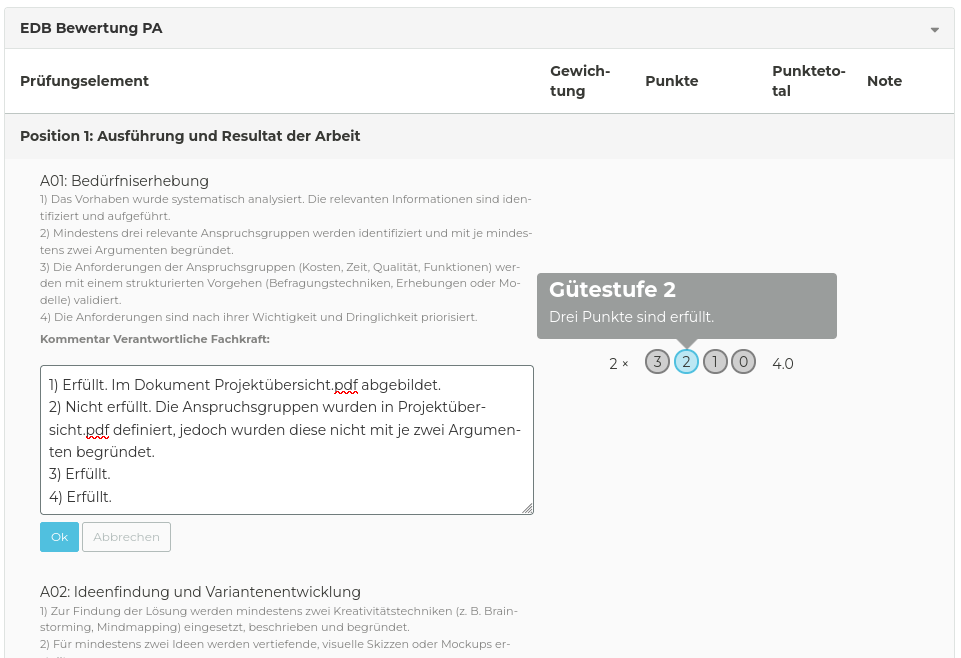
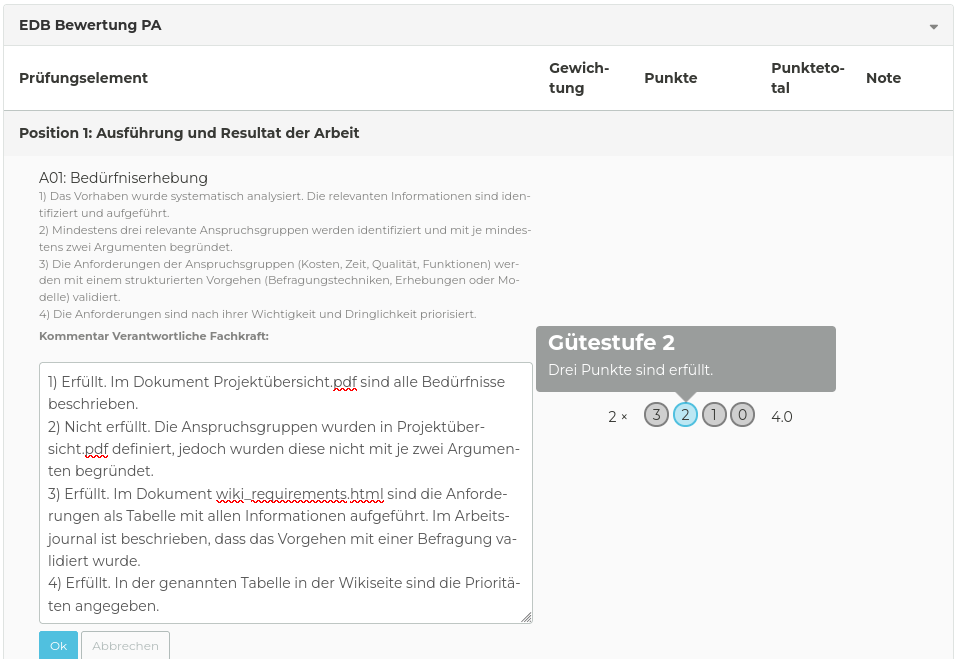
docs: tune

diff --git a/edb/infoveranstaltung-vf.html b/edb/infoveranstaltung-vf.html
@@ -152,7 +152,7 @@
                 <li><h3>Registrierung (ab 25.11.)</h3><p>Einladung durch den/die BB, um Dich auf der Prüfungsplattform zu registrieren.</p></li>
                 <li class="fragment"><h3>Grobplanung (bis 31.12.)</h3><p>Du gibst zusammen mit der KAND die Grobbeschreibung und den Startblock ein.</p></li>
                 <li class="fragment"><h3>Aufgabenstellung (bis 1 Monat vor dem Start)</h3><p>Detaillierte Aufgabenstellung ausarbeiten und auf der Prüfungsplattform eingeben.</p></li>
-                <li class="fragment"><h3>Validierung und Freigabe (bis wenige Tage vor dem Start)</h3><p>Der/die VEX gibt die IPA zur Umsetzung frei.</p></li>
+                <li class="fragment"><h3>Validierung und Freigabe (bis 3-5 Tage vor dem Start)</h3><p>Der/die VEX gibt die IPA zur Umsetzung frei.</p></li>
               </ol>
               <aside class="callout">Plane rückwärts vom IPA-Start und bearbeite Rückmeldungen zeitnah.</aside>
             </div>
@@ -183,7 +183,7 @@
                 <img src="../lib/assets/icons/education/creativity.svg" alt="Austauschen">
                 <div>
                   <h3>Ideen prüfen</h3>
-                  <p>Prüfe Ressourcen, Zugänge und Zeitfenster im Betrieb. Prüfe die Machbarkeit innerhalb der <strong>10 Arbeitstagen</strong>.</p>
+                  <p>Prüfe Ressourcen, Zugänge und Zeitfenster im Betrieb. Prüfe die Machbarkeit innerhalb der <strong>10 Arbeitstage</strong>.</p>
                 </div>
               </div>
               <div class="icon-list-item fragment">
@@ -299,8 +299,8 @@
                     <li>Wähle den Startblock aus, in dem der erste Arbeitstag liegen muss.</li>
                     <li>Wähle die Durchführungsart.</li>
                     <li>Gib den Thementitel und die Themenbeschreibung ein.</li>
-                    <li>Fülle die restlichen erforderlichen Felder aus und signiere die Eingaben.</li>
-                    <li>Die KAND muss die Eingaben prüfen und bestätigen.</li>
+                    <li>Fülle die restlichen erforderlichen Felder aus und signiere die Eingabe.</li>
+                    <li>Die KAND muss die Eingabe prüfen und bestätigen.</li>
                   </ol>
                   <aside class="callout" style="margin-block-start: 1em">Für die Startblöcke gibt es Kontingente.</aside>
                 </div>
@@ -373,13 +373,13 @@
               <div class="image-text"><!-- .element style="grid-template-columns: minmax(0, 1fr) minmax(0, 1fr);" -->
                 <div>
                   <ol class="agenda-list">
-                    <li class="fragment"><h3>Kriterienauswahl</h3><p>Je zwei Wahl- und Individualkriterien erfassen. Auf Messbarkeit achten und doppelte Bewertung vermeiden.</p></li>
+                    <li><h3>Kriterienauswahl</h3><p>Je zwei Wahl- und Individualkriterien erfassen. Auf Messbarkeit achten und doppelte Bewertung vermeiden.</p></li>
                     <li class="fragment"><h3>Ausgangslage</h3><p>Projektumfeld und Problemstellung beschreiben</p></li>
                     <li class="fragment"><h3>Detaillierte Aufgabenstellung</h3><p>Ausführliche Beschreibung, ohne die Lösung vorwegzunehmen (wie Kundenauftrag)</p></li>
                   </ol>
                 </div>
                 <div>
-                  <ol class="agenda-list" start="5">
+                  <ol class="agenda-list" start="4">
                     <li class="fragment"><h3>Mittel und Methoden</h3><p>Benötigter Arbeitsplatz sowie einzusetzende Hard- und Software</p></li>
                     <li class="fragment"><h3>Vorkenntnisse</h3><p>Ähnliche Projekte in der Vergangenheit</p></li>
                     <li class="fragment"><h3>Vorarbeiten</h3><p>Abgrenzung von der IPA</p></li>
@@ -399,8 +399,8 @@
             <div class="slide-content">
               <div class="image-text">
                 <div>
-                  <ol class="agenda-list" start="9">
-                    <li class="fragment"><h3>Zeitrahmen der Aufgabe</h3><p>Definiere den <strong>Startzeitpunkt</strong>, der innerhalb des gewählten Startblocks liegen muss. Der <strong>Endzeitpunkt</strong> darf <strong>maximal zwei Monate</strong> nach dem Startzeitpunkt oder <strong>spätestens am 01.06.2027</strong> liegen.</p></li>
+                  <ol class="agenda-list" start="8">
+                    <li><h3>Zeitrahmen der Aufgabe</h3><p>Definiere den <strong>Startzeitpunkt</strong>, der innerhalb des gewählten Startblocks liegen muss. Der <strong>Endzeitpunkt</strong> darf <strong>maximal zwei Monate</strong> nach dem Startzeitpunkt oder <strong>spätestens am 01.06.2027</strong> liegen.</p></li>
                     <li class="fragment"><h3>Zeit</h3><p>Für die Projektarbeit sind immer 80 Stunden vorgesehen.</p></li>
                   </ol>
                 </div>
@@ -421,8 +421,8 @@
             <div class="slide-content">
               <div class="image-text">
                 <div>
-                  <ol class="agenda-list" start="11">
-                    <li class="fragment"><h3>Grober Soll-Zeitplan</h3><p>Schätze die benötigte Zeit für die einzelnen Arbeitsschritte ein. <strong>Die KAND darf diese Planung nicht sehen.</strong></p></li>
+                  <ol class="agenda-list" start="10">
+                    <li><h3>Grober Soll-Zeitplan</h3><p>Schätze die benötigte Zeit für die einzelnen Lieferobjekte (im Screenshot Aufgabe / Arbeitsschritt) ein. <strong>Die KAND darf diese Planung nicht sehen.</strong></p></li>
                     <li class="fragment"><h3>Weitere Dokumente</h3><p>Füge alle relevanten Dokumente bei, die für die Validierung oder Bearbeitung der Aufgabe notwendig sind. <strong>Denke daran, die passende Sichtbarkeit einzustellen.</strong></p></li>
                   </ol>
                 </div>
@@ -445,8 +445,9 @@
                 <div>
                   <ul class="key-points">
                     <li><h3>Signieren</h3><p>Zum Abschluss signierst Du und die KAND die Aufgabe. Die KAND bestätigt dadurch, dass sie die Aufgabe verstanden hat und mit der Umsetzung einverstanden ist.</p></li>
-                    <li><h3>Validieren</h3><p>Der/die VEX überprüft die Arbeit, weist Dich gegebenenfalls an, sie zu überarbeiten, oder gibt sie ein paar Tage vor dem Start frei.</p></li>
+                    <li><h3>Validieren</h3><p>Der/die VEX überprüft die Arbeit, weist Dich gegebenenfalls an, sie zu überarbeiten, oder gibt sie 3-5 Tage vor dem Start frei.</p></li>
                   </ul>
+                  <img src="./assets/pkorg_vf_auge.png" width="768" height="402" style="margin-block-start: -3.8em; margin-inline-start: 1em;" class="fragment" alt="Auge">
                 </div>
                 <figure style="width: 400px; max-width: 100%;">
                   <img src="./assets/start.jpg" width="768" height="432" style="height: 400px;" alt="Symbolbild">
@@ -581,7 +582,7 @@
                   <ol class="agenda-list">
                     <li><h3>Gütestufe festlegen</h3><p>Lege die Gütestufe der einzelnen Kriterien fest. Ermittle, wie viele Punkte die Arbeit in den jeweiligen Kategorien erreicht.</p></li>
                     <li class="fragment"><h3>Bemerkung eintragen</h3><p>Trage als Bemerkung ein, weshalb und wie oder wo die einzelnen Punkte erfüllt wurden.</p></li>
-                    <li class="fragment"><h3>Bewertung abschliessen</h3><p>Signiere Deine Bewertung bis 3 Tage vor der Präsentation und dem Fachgespräch.</p></li>
+                    <li class="fragment"><h3>Bewertung abschliessen</h3><p>Signiere Deine Bewertung bis spätestens 7 Tage nach der Abgabe.</p></li>
                   </ol>
                 </div>
                 <figure style="width: 600px; max-width: 100%;">
@@ -627,7 +628,7 @@
                   <ul>
                     <li>Das Fachgespräch dauert zwischen <strong>30 und 40 Minuten</strong>. Dabei werden <strong>vier Themenkomplexe</strong> behandelt.</li>
                     <li class="fragment">Es geht darum herauszufinden, ob sich mit der KAND auf <strong>professionellem Niveau über ihre Arbeit «fachsimpeln»</strong> lässt.</li>
-                    <li class="fragment"><strong>Stelle sicher, dass du gut vorbereitet bist.</strong> Das Expertenteam führt das Gespräch. Das Expertenteam ist dankbar, wenn du ein paar Vorschläge für Themen oder Fragen bis 3 Tage vorher einreichst.</li>
+                    <li class="fragment"><strong>Stelle sicher, dass du gut vorbereitet bist.</strong> Das Expertenteam führt das Gespräch. Das Expertenteam ist dankbar, wenn du ein paar Vorschläge für Themen oder Fragen bis 7 Tage nach der Abgabe für <strong>die KAND unsichtbar</strong> in der History einträgst.</li>
                   </ul>
                 </div>
                 <figure style="width: 400px; max-width: 100%;">
